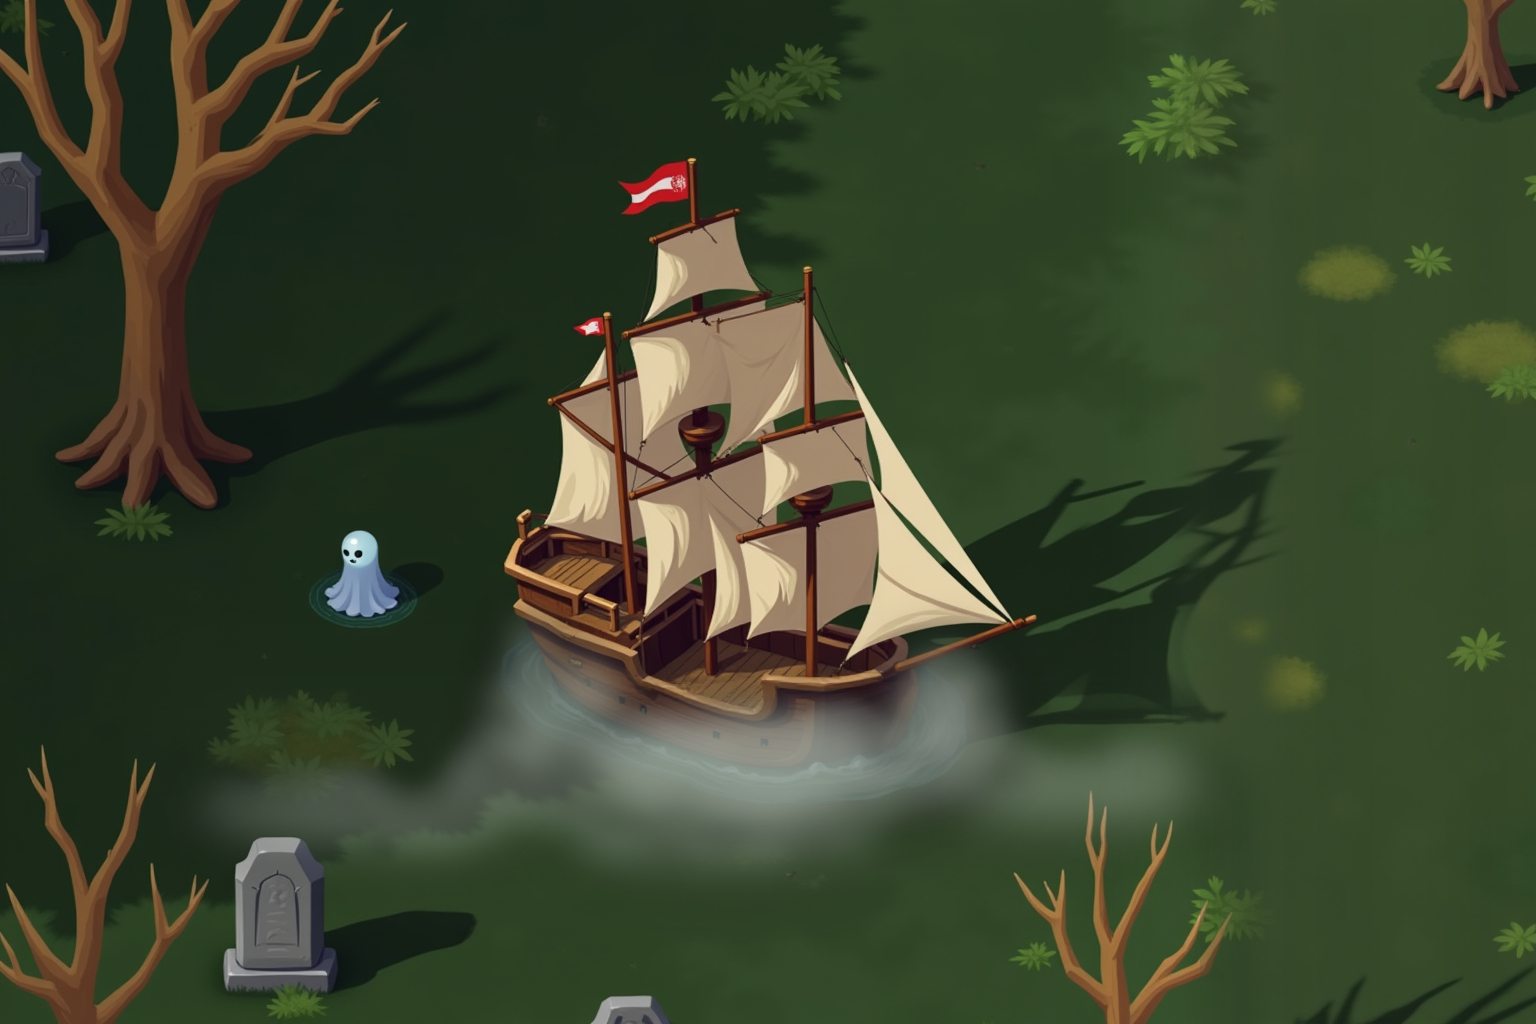
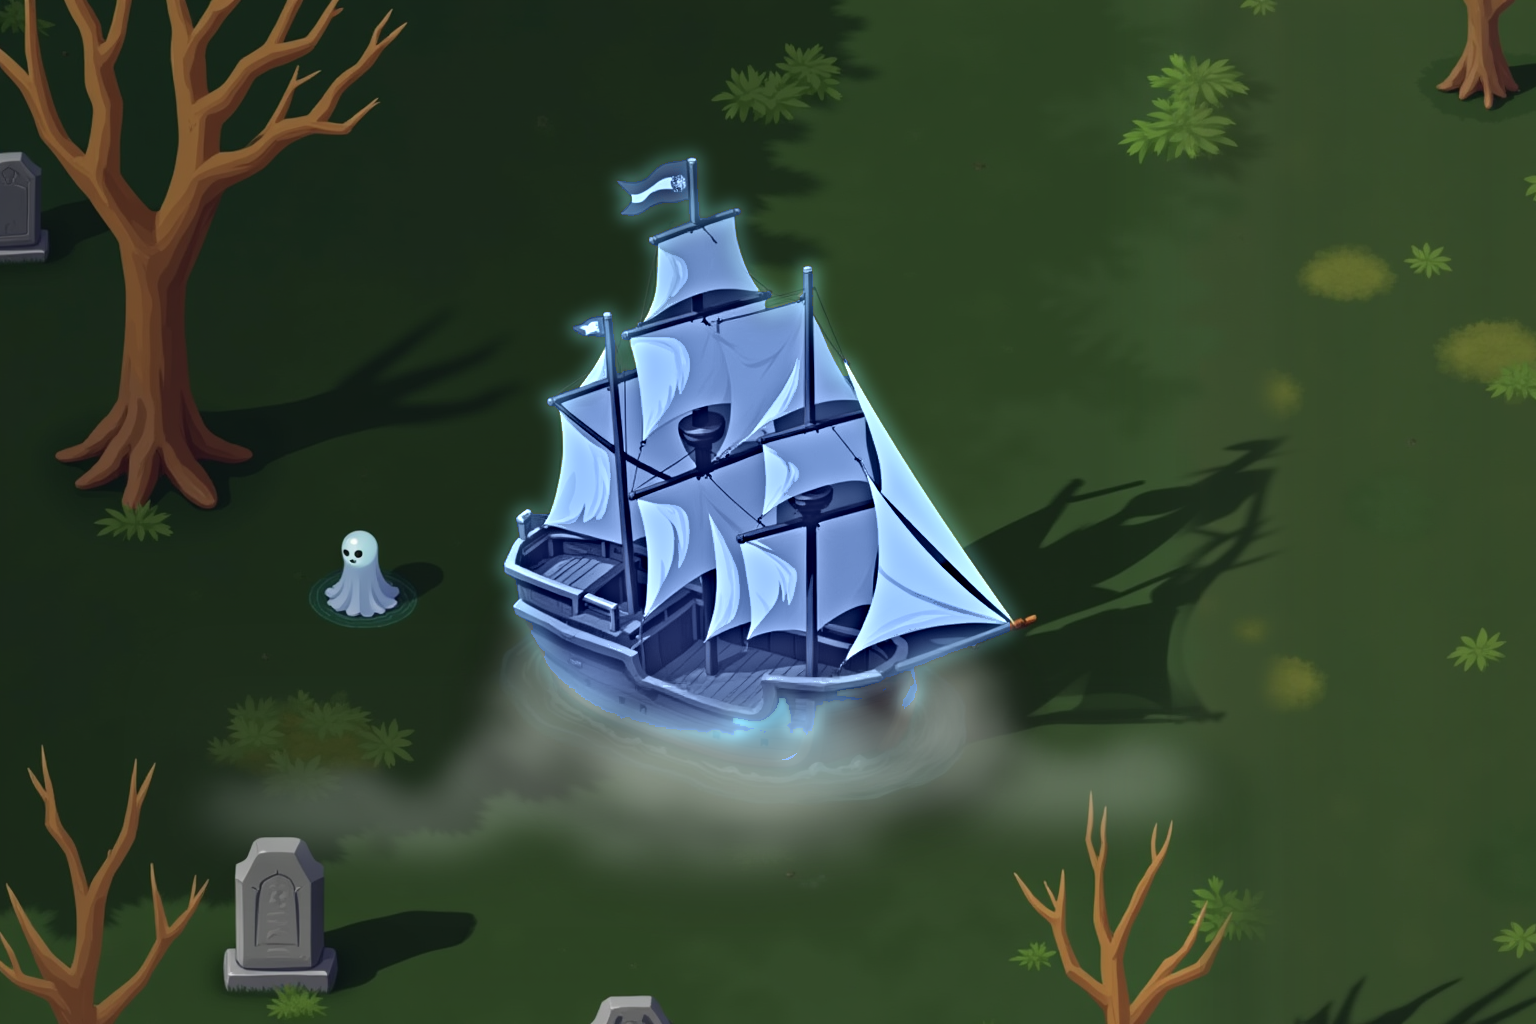
site: spirit key art -> variant D
- assets/keyart/spirit-afterlife.png: variant D (spectral pale-blue ghost
  ship), byte-identical to out/key_art_batch1/final/keyart_spirit_spectral_d.png;
  spirit-afterlife.webp rebuilt by tools/key_art.py (q90, 80 KB).
- key_art.json: art_batch and alt EN/RU describe D; paths unchanged.
- the temporary placeholder / ghost paths (never committed) are gone.

Window, timings (peak -440, exit -453), side, size, soft mask, lazy-load,
village-life and mine-work unchanged.

Changed region(s): [[0.3125, 0.125, 0.6875, 0.75]]

diff --git a/proto/index.html b/proto/index.html
@@ -156,7 +156,7 @@
     <img data-src="../assets/keyart/mine-work.webp" width="1536" height="1024" alt="A miner swings a pickaxe beside a boulder with a rust-coloured ore vein, near a timber mine entrance, a brazier and a cart of ore." data-alt-ru="Шахтёр с киркой у валуна с рыжей рудной жилой, рядом вход в штольню, жаровня и вагонетка с рудой." decoding="async">
   </figure>
   <figure class="key-art" data-id="spirit-afterlife" data-biome="spirit" data-anchor="spirit/shipwreck/ship" data-peak-offset="40.592" data-core="8" data-range="17" data-exit-core="5" data-exit-range="13" data-side="left" data-preload="120" data-supports="spirit-death">
-    <img data-src="../assets/keyart/spirit-afterlife.webp" width="1536" height="1024" alt="The ship of the dead rests in low mist on the mossy ground of the spirit world; a small ghost stands nearby among dead trees and gravestones." data-alt-ru="Корабль мёртвых стоит в низком тумане на моховой земле мира духов; рядом маленький призрак, мёртвые деревья и надгробия." decoding="async">
+    <img data-src="../assets/keyart/spirit-afterlife.webp" width="1536" height="1024" alt="A spectral ship of the dead, pale blue and translucent, drifts on low mist over the mossy ground of the spirit world; a small ghost stands nearby among dead trees and gravestones." data-alt-ru="Призрачный корабль мёртвых, бледно-голубой и полупрозрачный, плывёт в низком тумане над моховой землёй мира духов; рядом маленький призрак, мёртвые деревья и надгробия." decoding="async">
   </figure>
 </div>
 <!-- key-art:end -->

diff --git a/DEVLOG.md b/DEVLOG.md
@@ -5,6 +5,19 @@
 
 ---
 
+## 2026-09-19 14:22 — key-art-spirit-d-1: spirit key art = вариант D
+
+- **Что:** арт окна spirit-afterlife заменён на вариант D (призрачный
+  бледно-голубой корабль, `keyart_spirit_spectral_d.png`, мастер побайтно) и
+  WebP q90 пересобран; временная заглушка (placeholder / ghost) убрана, путь
+  прежний `assets/keyart/spirit-afterlife.*`. alt EN/RU обновлены под D.
+  Окно, тайминги (пик −440, выход −453), сторона, размер, маска, village/mine
+  — без изменений.
+- **Тип:** feat
+- **Проверка:** test_layout 70/70 · smoke 25/25 · `--check` ✓ · visual vs PR #13:
+  только keyart-spirit (3.7%)
+- **Commit:** <hash>
+
 ## 2026-09-19 12:23 — key-art-integration-1: spirit — арт-корабль уходит до мирового
 
 - **Что:** окно spirit-afterlife больше не пересекается с мировым кораблём:
